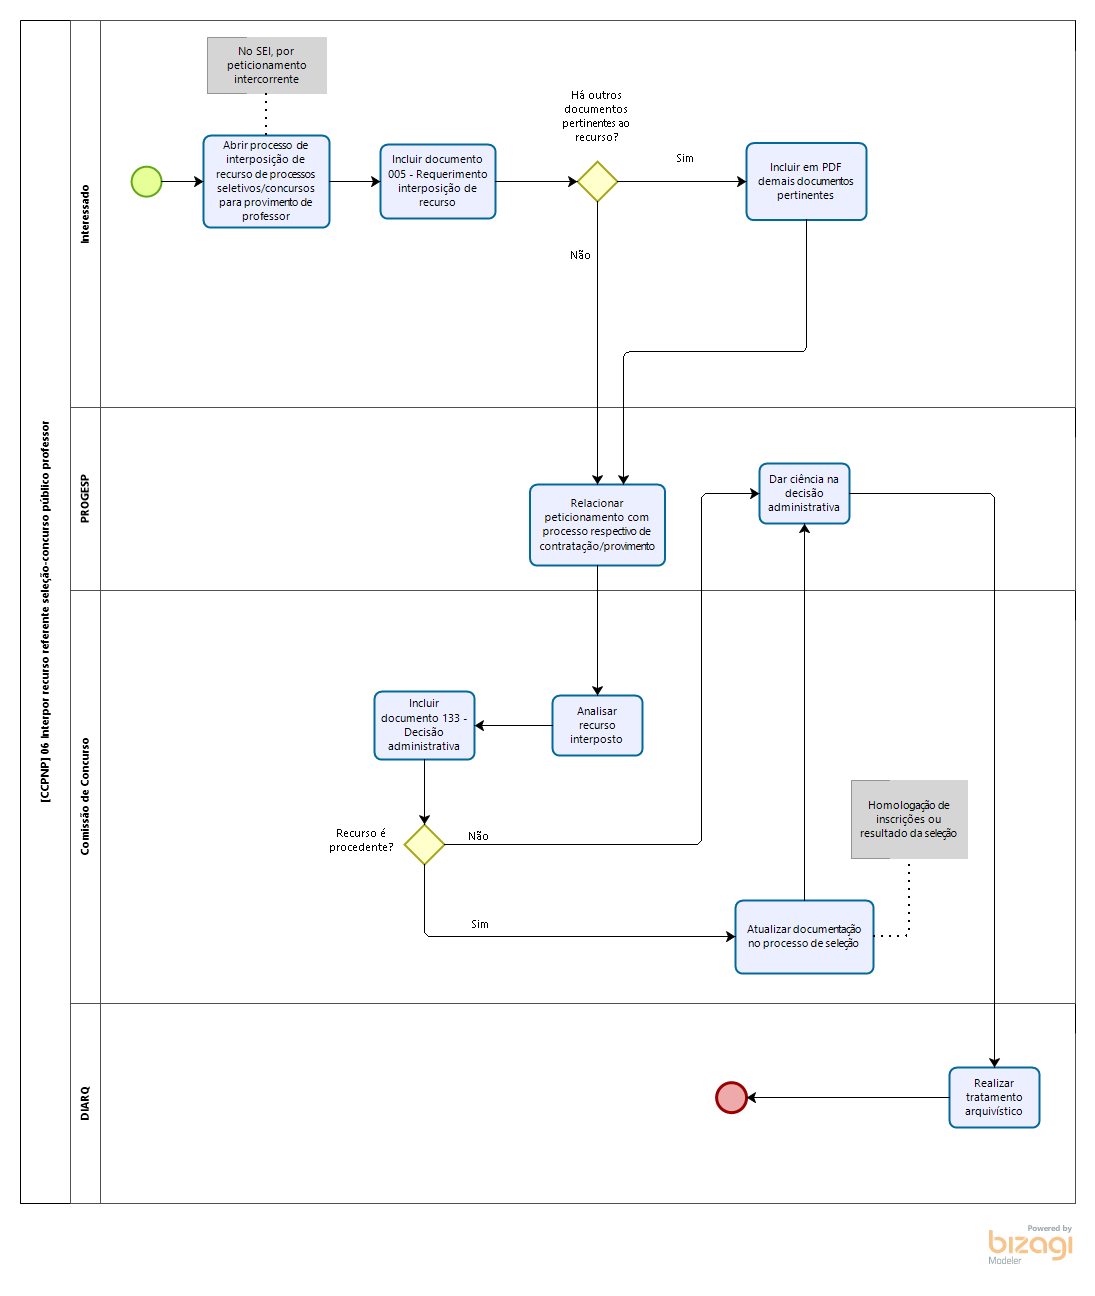
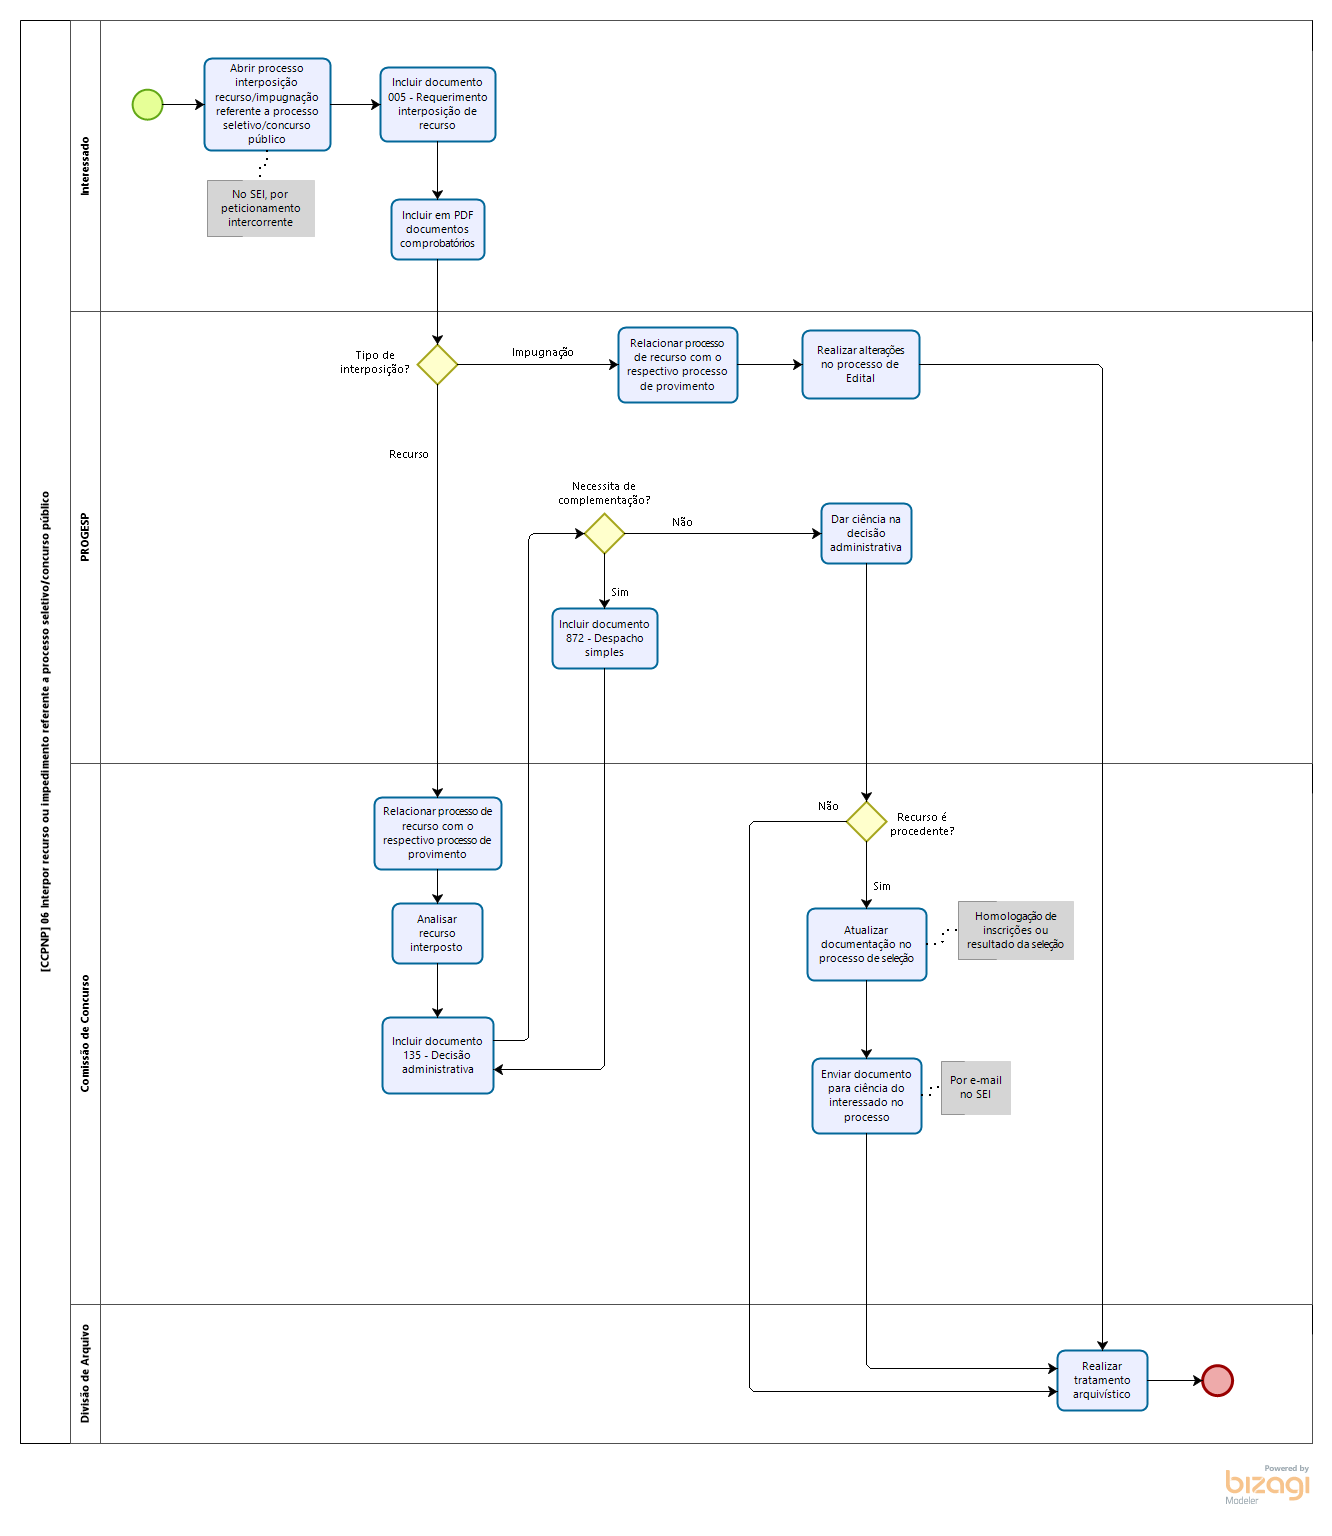
[CCPNP]

diff --git a/CCPNP/CCPNP 06 Interpor recurso referente seleção-concurso público professor/libs/js/json/configuration.json.js b/CCPNP/CCPNP 06 Interpor recurso referente seleção-concurso público professor/libs/js/json/configuration.json.js
@@ -1,1 +1,1 @@
-Bizagi.AppModel = {"personalized":false,"userLogoName":"\\libs\\img\\biz-ex-logo.png","bizagiUrl":"http://www.bizagi.com","productName":"Bizagi Modeler","modelName":"[CCPNP] 06 Interpor recurso referente seleção-concurso público professor","publishDate":"13/11/2020 13:54:31","pages":[{"id":"9fda9faa-33d2-456f-862f-ec55906ac26f","name":"[CCPNP] 06 Interpor recurso referente seleção-concurso público professor","version":"1.0","author":"mauriciostuani","image":"files\\diagrams\\CCPNP]_06_Interpor_recurso_referente_selecao_concurso_publico_professor.png","isSubprocessPage":false,"elements":[{"id":"73a4371a-78c5-4d88-a90a-04c3a7d56145","name":"[CCPNP] 06 Interpor recurso referente seleção-concurso público professor","elementImage":"files\\bpmnElements\\Participant.png","imageBounds":{"points":[{"x":20.0,"y":20.0}],"radius":0.0,"height":1183.0,"width":50.0,"shape":"rect"},"elementType":"Participant","properties":[],"pageElements":[{"id":"550db8bb-77d8-47ed-a48a-e9531f126b46","name":"Nenhum início","elementImage":"files\\bpmnElements\\NoneStart.png","imageBounds":{"points":[{"x":131.0,"y":166.0}],"radius":15.0,"height":30.0,"width":30.0,"shape":"circle"},"elementType":"NoneStart"},{"id":"ea1a994b-1d33-4651-8b73-d2d40a9599a6","name":"Abrir processo  de interposição de recurso de processos seletivos/concursos para provimento de professor","elementImage":"files\\bpmnElements\\AbstractTask.png","imageBounds":{"points":[{"x":203.0,"y":135.0}],"radius":0.0,"height":92.0,"width":126.0,"shape":"rect"},"elementType":"AbstractTask","properties":[]},{"id":"c5dfa7f7-2dc9-44c0-8360-ccdbe01b112c","name":"Incluir documento 005 - Requerimento interposição de recurso ","elementImage":"files\\bpmnElements\\AbstractTask.png","imageBounds":{"points":[{"x":380.0,"y":144.0}],"radius":0.0,"height":74.0,"width":115.0,"shape":"rect"},"elementType":"AbstractTask","properties":[]},{"id":"33979ef0-88bd-4088-83b7-56f4ffee956e","name":"Há outros documentos  pertinentes ao recurso?","elementImage":"files\\bpmnElements\\ExclusiveGateway.png","imageBounds":{"points":[{"x":577.0,"y":161.0}],"radius":0.0,"height":40.0,"width":40.0,"shape":"poly"},"elementType":"ExclusiveGateway","properties":[],"pageElements":[{"name":"Sim","elementType":"SequenceFlow","properties":[]},{"name":"Não","elementType":"SequenceFlow","properties":[]}]},{"id":"271a0203-d584-486e-9b68-02074436c168","name":"Incluir em PDF demais documentos pertinentes","elementImage":"files\\bpmnElements\\AbstractTask.png","imageBounds":{"points":[{"x":746.0,"y":142.5}],"radius":0.0,"height":77.0,"width":120.0,"shape":"rect"},"elementType":"AbstractTask","properties":[]},{"id":"aff48178-87ed-41b8-a4ae-0cfc513162cd","name":"Relacionar peticionamento com processo respectivo de  contratação/provimento","elementImage":"files\\bpmnElements\\AbstractTask.png","imageBounds":{"points":[{"x":529.500061,"y":484.0}],"radius":0.0,"height":81.0,"width":135.0,"shape":"rect"},"elementType":"AbstractTask","properties":[]},{"id":"31af199d-f8ba-429e-bb1f-08b67b20ca41","name":"Analisar recurso interposto","elementImage":"files\\bpmnElements\\AbstractTask.png","imageBounds":{"points":[{"x":552.0,"y":695.0}],"radius":0.0,"height":60.0,"width":90.0,"shape":"rect"},"elementType":"AbstractTask","properties":[]},{"id":"d6649c0c-e5e6-4352-8349-b7bf5a251ee7","name":"Incluir documento 133 - Decisão administrativa","elementImage":"files\\bpmnElements\\AbstractTask.png","imageBounds":{"points":[{"x":374.0,"y":691.0}],"radius":0.0,"height":68.0,"width":100.0,"shape":"rect"},"elementType":"AbstractTask","properties":[]},{"id":"7bab6257-095d-400e-9e12-38d6078d5c9b","name":"Recurso é procedente?","elementImage":"files\\bpmnElements\\ExclusiveGateway.png","imageBounds":{"points":[{"x":404.0,"y":824.0}],"radius":0.0,"height":40.0,"width":40.0,"shape":"poly"},"elementType":"ExclusiveGateway","properties":[],"pageElements":[{"name":"Sim","elementType":"SequenceFlow","properties":[]},{"name":"Não","elementType":"SequenceFlow","properties":[]}]},{"id":"24d9070e-1f6c-4428-a303-88b7886fe943","name":"Atualizar documentação no processo de seleção ","elementImage":"files\\bpmnElements\\AbstractTask.png","imageBounds":{"points":[{"x":735.0,"y":900.0}],"radius":0.0,"height":73.0,"width":138.0,"shape":"rect"},"elementType":"AbstractTask","properties":[]},{"id":"a04fdb59-ac6e-49b2-ac94-f149794c29dd","name":"Dar ciência na decisão administrativa","elementImage":"files\\bpmnElements\\AbstractTask.png","imageBounds":{"points":[{"x":759.0,"y":463.0}],"radius":0.0,"height":60.0,"width":90.0,"shape":"rect"},"elementType":"AbstractTask","properties":[]},{"id":"bb32ff8b-fca3-42d8-9217-a77dbad56aed","name":"Realizar tratamento arquivístico","elementImage":"files\\bpmnElements\\AbstractTask.png","imageBounds":{"points":[{"x":949.0,"y":1067.0}],"radius":0.0,"height":60.0,"width":90.0,"shape":"rect"},"elementType":"AbstractTask","properties":[]},{"id":"aa68c9a2-4020-4834-b4cd-852d1eafa241","name":"Nenhum final","elementImage":"files\\bpmnElements\\NoneEnd.png","imageBounds":{"points":[{"x":716.0,"y":1082.0}],"radius":15.0,"height":30.0,"width":30.0,"shape":"circle"},"elementType":"NoneEnd"},{"id":"7ec30e18-dcf3-4ef4-9c4f-9332b1c970aa","name":"Interessado","elementImage":"files\\bpmnElements\\Lane.png","imageBounds":{"points":[{"x":70.0,"y":20.0}],"radius":0.0,"height":387.0,"width":30.0,"shape":"rect"},"elementType":"Lane"},{"id":"a7009bb5-cf66-4bd9-abd8-2eafeaca8259","name":"PROGESP","elementImage":"files\\bpmnElements\\Lane.png","imageBounds":{"points":[{"x":70.0,"y":407.0}],"radius":0.0,"height":183.0,"width":30.0,"shape":"rect"},"elementType":"Lane"},{"id":"41ab7287-3b40-4efa-adb2-5dafd4b48d5a","name":"Comissão de Concurso","elementImage":"files\\bpmnElements\\Lane.png","imageBounds":{"points":[{"x":70.0,"y":590.0}],"radius":0.0,"height":413.0,"width":30.0,"shape":"rect"},"elementType":"Lane"},{"id":"4de78c46-38a5-4505-9bf9-dce6fe28b984","name":"DIARQ","elementImage":"files\\bpmnElements\\Lane.png","imageBounds":{"points":[{"x":70.0,"y":1003.0}],"radius":0.0,"height":200.0,"width":30.0,"shape":"rect"},"elementType":"Lane"}]}]}],"texts":{"tableOfContents":"Índice","pageNumber":"Página","pageNumberLabelOf":"de","version":"Versão","author":"Autor","description":"Descrição","mainPool":"Processo principal","mainPoolDescription":"Processo principal Descrição","processDiagrams":"Processar os Diagramas","processElements":"Elementos do processo","elements":"Elementos do processo","defaultElementName":"Elemento","performers":"Executantes","accountable":"Autoridade","consulted":"Consultado","informed":"Informado","connectors":"Conectores","connector":"Conector","home":"Principal","search":"Pesquisar","goToParentProcess":"<< Ir para Matriz","visitBizagi":"Visite bizagi.com","contains":"Contém {0} subprocessos","showAll":"Show all","fullScreen":"Tela inteira","zoomIn":"Ampliar","zoomOut":"Reduzir","close":"Fechar","menu":"Menu: ","errorPage":"Erro ao visualizar a página","process":"Processo","subProcess":"Subprocessos publicados","contain":"Contém","checkAttributes":"Ver atributos","checkOverview":"Ver resumo","unavailableResource":"O recurso não está disponível","localResource":"O recurso pode ser acessado localmente","performer":"Participantes","linktoimage":"Link para a  imagem","presentationAction":"Ações de apresentação","searchGlobal":"Busca todos","searchLocal":"Busca neste processo","searchResults":"Nenhum resultado encontrado","titlePage":"Start","emptyElement":"Este elemento ainda não foi documentado","unsupported":"Seu navegador não suporta conteúdo exibido por esta página. <br> Recomendamos que você atualizar o seu navegador.","details":"Detalhes","expand":"Expandir","mainPoolProperties":"Propriedades do Processo principal","cannotVisualize":"The page cannot be displayed","resourceNotFound":"The requested resource was not found:","applyTheme":"Applying new theme"},"searchMap":[{"containerId":"9fda9faa-33d2-456f-862f-ec55906ac26f","containerName":"[CCPNP] 06 Interpor recurso referente seleção-concurso público professor","isSubprocess":false,"elements":[{"id":"73a4371a-78c5-4d88-a90a-04c3a7d56145","value":"[CCPNP] 06 Interpor recurso referente seleção-concurso público professor"},{"id":"7ec30e18-dcf3-4ef4-9c4f-9332b1c970aa","value":"Interessado"},{"id":"a7009bb5-cf66-4bd9-abd8-2eafeaca8259","value":"PROGESP"},{"id":"41ab7287-3b40-4efa-adb2-5dafd4b48d5a","value":"Comissão de Concurso"},{"id":"4de78c46-38a5-4505-9bf9-dce6fe28b984","value":"DIARQ"},{"id":"31af199d-f8ba-429e-bb1f-08b67b20ca41","value":"Analisar recurso interposto"},{"id":"24d9070e-1f6c-4428-a303-88b7886fe943","value":"Atualizar documentação no processo de seleção "},{"id":"aa68c9a2-4020-4834-b4cd-852d1eafa241","value":""},{"id":"c5dfa7f7-2dc9-44c0-8360-ccdbe01b112c","value":"Incluir documento 005 - Requerimento interposição de recurso "},{"id":"550db8bb-77d8-47ed-a48a-e9531f126b46","value":""},{"id":"d6649c0c-e5e6-4352-8349-b7bf5a251ee7","value":"Incluir documento 133 - Decisão administrativa"},{"id":"ea1a994b-1d33-4651-8b73-d2d40a9599a6","value":"Abrir processo  de interposição de recurso de processos seletivos/concursos para provimento de professor"},{"id":"bb32ff8b-fca3-42d8-9217-a77dbad56aed","value":"Realizar tratamento arquivístico"},{"id":"7bab6257-095d-400e-9e12-38d6078d5c9b","value":"Recurso é procedente?"},{"id":"aff48178-87ed-41b8-a4ae-0cfc513162cd","value":"Relacionar peticionamento com processo respectivo de  contratação/provimento"},{"id":"a04fdb59-ac6e-49b2-ac94-f149794c29dd","value":"Dar ciência na decisão administrativa"},{"id":"271a0203-d584-486e-9b68-02074436c168","value":"Incluir em PDF demais documentos pertinentes"},{"id":"33979ef0-88bd-4088-83b7-56f4ffee956e","value":"Há outros documentos  pertinentes ao recurso?"},{"id":"722bcc7e-2093-4be1-a575-df6f945bb4ac"},{"id":"cef6287e-f06d-40c7-8a98-cd01bec83e7a"},{"id":"87e7b691-e051-48e6-8efe-a9215e86c87f"},{"id":"48ec7532-e574-411a-b06c-289c73c7d315"}]}]}
+Bizagi.AppModel = {"personalized":false,"userLogoName":"\\libs\\img\\biz-ex-logo.png","bizagiUrl":"http://www.bizagi.com","productName":"Bizagi Modeler","modelName":"[CCPNP] 06 Interpor recurso referente seleção-concurso público professor","publishDate":"09/01/2021 12:51:57","pages":[{"id":"9fda9faa-33d2-456f-862f-ec55906ac26f","name":"[CCPNP] 06 Interpor recurso referente seleção-concurso público professor","version":"1.0","author":"mauriciostuani","image":"files\\diagrams\\CCPNP]_06_Interpor_recurso_referente_selecao_concurso_publico_professor.png","isSubprocessPage":false,"elements":[{"id":"73a4371a-78c5-4d88-a90a-04c3a7d56145","name":"[CCPNP] 06 Interpor recurso ou impedimento referente a processo seletivo/concurso público","elementImage":"files\\bpmnElements\\Participant.png","imageBounds":{"points":[{"x":20.0,"y":20.0}],"radius":0.0,"height":1423.0,"width":50.0,"shape":"rect"},"elementType":"Participant","properties":[],"pageElements":[{"id":"550db8bb-77d8-47ed-a48a-e9531f126b46","name":"Nenhum início","elementImage":"files\\bpmnElements\\NoneStart.png","imageBounds":{"points":[{"x":132.0,"y":89.0}],"radius":15.0,"height":30.0,"width":30.0,"shape":"circle"},"elementType":"NoneStart"},{"id":"ea1a994b-1d33-4651-8b73-d2d40a9599a6","name":"Abrir processo interposição recurso/impugnação referente a processo seletivo/concurso público","elementImage":"files\\bpmnElements\\AbstractTask.png","imageBounds":{"points":[{"x":204.0,"y":58.0}],"radius":0.0,"height":92.0,"width":126.0,"shape":"rect"},"elementType":"AbstractTask","properties":[]},{"id":"c5dfa7f7-2dc9-44c0-8360-ccdbe01b112c","name":"Incluir documento 005 - Requerimento interposição de recurso ","elementImage":"files\\bpmnElements\\AbstractTask.png","imageBounds":{"points":[{"x":380.0,"y":67.0}],"radius":0.0,"height":74.0,"width":115.0,"shape":"rect"},"elementType":"AbstractTask","properties":[]},{"id":"271a0203-d584-486e-9b68-02074436c168","name":"Incluir em PDF documentos comprobatórios","elementImage":"files\\bpmnElements\\AbstractTask.png","imageBounds":{"points":[{"x":391.0,"y":199.0}],"radius":0.0,"height":60.0,"width":93.0,"shape":"rect"},"elementType":"AbstractTask","properties":[]},{"id":"14cc927f-cb5d-41ad-b340-6702bbd62e65","name":"Tipo de interposição?","elementImage":"files\\bpmnElements\\ExclusiveGateway.png","imageBounds":{"points":[{"x":417.0,"y":344.0}],"radius":0.0,"height":40.0,"width":40.0,"shape":"poly"},"elementType":"ExclusiveGateway","properties":[],"pageElements":[{"name":"Recurso","elementType":"SequenceFlow","properties":[]},{"name":"Impugnação","elementType":"SequenceFlow","properties":[]}]},{"id":"aff48178-87ed-41b8-a4ae-0cfc513162cd","name":"Relacionar processo de recurso com o respectivo processo de provimento","elementImage":"files\\bpmnElements\\AbstractTask.png","imageBounds":{"points":[{"x":374.0,"y":797.0}],"radius":0.0,"height":72.0,"width":127.0,"shape":"rect"},"elementType":"AbstractTask","properties":[]},{"id":"31af199d-f8ba-429e-bb1f-08b67b20ca41","name":"Analisar recurso interposto","elementImage":"files\\bpmnElements\\AbstractTask.png","imageBounds":{"points":[{"x":392.0,"y":903.0}],"radius":0.0,"height":60.0,"width":90.0,"shape":"rect"},"elementType":"AbstractTask","properties":[]},{"id":"d6649c0c-e5e6-4352-8349-b7bf5a251ee7","name":"Incluir documento 135 - Decisão administrativa","elementImage":"files\\bpmnElements\\AbstractTask.png","imageBounds":{"points":[{"x":382.0,"y":1017.0}],"radius":0.0,"height":76.0,"width":111.0,"shape":"rect"},"elementType":"AbstractTask","properties":[]},{"id":"ee5d26d4-0ce1-460c-bcca-3c759a990829","name":"Necessita de complementação?","elementImage":"files\\bpmnElements\\ExclusiveGateway.png","imageBounds":{"points":[{"x":584.0,"y":513.0}],"radius":0.0,"height":40.0,"width":40.0,"shape":"poly"},"elementType":"ExclusiveGateway","properties":[],"pageElements":[{"name":"Sim","elementType":"SequenceFlow","properties":[]},{"name":"Não","elementType":"SequenceFlow","properties":[]}]},{"id":"f3127d44-a085-4aa2-aeb7-d62816e31097","name":"Incluir documento  872 - Despacho simples","elementImage":"files\\bpmnElements\\AbstractTask.png","imageBounds":{"points":[{"x":552.0,"y":608.0}],"radius":0.0,"height":60.0,"width":105.0,"shape":"rect"},"elementType":"AbstractTask","properties":[]},{"id":"a04fdb59-ac6e-49b2-ac94-f149794c29dd","name":"Dar ciência na decisão administrativa","elementImage":"files\\bpmnElements\\AbstractTask.png","imageBounds":{"points":[{"x":821.0,"y":503.0}],"radius":0.0,"height":60.0,"width":90.0,"shape":"rect"},"elementType":"AbstractTask","properties":[]},{"id":"365738e4-37be-4626-a467-6babe7b9a9e7","name":"Recurso é procedente?","elementImage":"files\\bpmnElements\\ExclusiveGateway.png","imageBounds":{"points":[{"x":846.0,"y":801.0}],"radius":0.0,"height":40.0,"width":40.0,"shape":"poly"},"elementType":"ExclusiveGateway","properties":[],"pageElements":[{"name":"Sim","elementType":"SequenceFlow","properties":[]},{"name":"Não","elementType":"SequenceFlow","properties":[]}]},{"id":"24d9070e-1f6c-4428-a303-88b7886fe943","name":"Atualizar documentação no processo de seleção ","elementImage":"files\\bpmnElements\\AbstractTask.png","imageBounds":{"points":[{"x":807.0,"y":908.0}],"radius":0.0,"height":72.0,"width":119.0,"shape":"rect"},"elementType":"AbstractTask","properties":[]},{"id":"1fa80cd8-b74b-4a3c-a37c-1f4c0541225b","name":"Enviar documento para ciência do interessado no processo","elementImage":"files\\bpmnElements\\AbstractTask.png","imageBounds":{"points":[{"x":812.0,"y":1058.0}],"radius":0.0,"height":75.0,"width":109.0,"shape":"rect"},"elementType":"AbstractTask","properties":[]},{"id":"189788ba-2c39-4b43-b963-945a1962fa67","name":"Relacionar processo de recurso com o respectivo processo de provimento","elementImage":"files\\bpmnElements\\AbstractTask.png","imageBounds":{"points":[{"x":618.0,"y":327.0}],"radius":0.0,"height":75.0,"width":119.0,"shape":"rect"},"elementType":"AbstractTask","properties":[]},{"id":"f4689d0e-abdb-4070-968b-53c0aec7298b","name":"Realizar alterações no processo de Edital ","elementImage":"files\\bpmnElements\\AbstractTask.png","imageBounds":{"points":[{"x":802.0,"y":330.0}],"radius":0.0,"height":68.0,"width":117.0,"shape":"rect"},"elementType":"AbstractTask","properties":[]},{"id":"bb32ff8b-fca3-42d8-9217-a77dbad56aed","name":"Realizar tratamento arquivístico","elementImage":"files\\bpmnElements\\AbstractTask.png","imageBounds":{"points":[{"x":1057.0,"y":1350.0}],"radius":0.0,"height":60.0,"width":90.0,"shape":"rect"},"elementType":"AbstractTask","properties":[]},{"id":"aa68c9a2-4020-4834-b4cd-852d1eafa241","name":"Nenhum final","elementImage":"files\\bpmnElements\\NoneEnd.png","imageBounds":{"points":[{"x":1202.0,"y":1365.0}],"radius":15.0,"height":30.0,"width":30.0,"shape":"circle"},"elementType":"NoneEnd"},{"id":"7ec30e18-dcf3-4ef4-9c4f-9332b1c970aa","name":"Interessado","elementImage":"files\\bpmnElements\\Lane.png","imageBounds":{"points":[{"x":70.0,"y":20.0}],"radius":0.0,"height":291.0,"width":30.0,"shape":"rect"},"elementType":"Lane"},{"id":"a7009bb5-cf66-4bd9-abd8-2eafeaca8259","name":"PROGESP","elementImage":"files\\bpmnElements\\Lane.png","imageBounds":{"points":[{"x":70.0,"y":311.0}],"radius":0.0,"height":452.0,"width":30.0,"shape":"rect"},"elementType":"Lane"},{"id":"41ab7287-3b40-4efa-adb2-5dafd4b48d5a","name":"Comissão de Concurso","elementImage":"files\\bpmnElements\\Lane.png","imageBounds":{"points":[{"x":70.0,"y":763.0}],"radius":0.0,"height":541.0,"width":30.0,"shape":"rect"},"elementType":"Lane"},{"id":"4de78c46-38a5-4505-9bf9-dce6fe28b984","name":"Divisão de Arquivo","elementImage":"files\\bpmnElements\\Lane.png","imageBounds":{"points":[{"x":70.0,"y":1304.0}],"radius":0.0,"height":139.0,"width":30.0,"shape":"rect"},"elementType":"Lane"}]}]}],"texts":{"tableOfContents":"Índice","pageNumber":"Página","pageNumberLabelOf":"de","version":"Versão","author":"Autor","description":"Descrição","mainPool":"Processo principal","mainPoolDescription":"Processo principal Descrição","processDiagrams":"Processar os Diagramas","processElements":"Elementos do processo","elements":"Elementos do processo","defaultElementName":"Elemento","performers":"Executantes","accountable":"Autoridade","consulted":"Consultado","informed":"Informado","connectors":"Conectores","connector":"Conector","home":"Principal","search":"Pesquisar","goToParentProcess":"<< Ir para Matriz","visitBizagi":"Visite bizagi.com","contains":"Contém {0} subprocessos","showAll":"Show all","fullScreen":"Tela inteira","zoomIn":"Ampliar","zoomOut":"Reduzir","close":"Fechar","menu":"Menu: ","errorPage":"Erro ao visualizar a página","process":"Processo","subProcess":"Subprocessos publicados","contain":"Contém","checkAttributes":"Ver atributos","checkOverview":"Ver resumo","unavailableResource":"O recurso não está disponível","localResource":"O recurso pode ser acessado localmente","performer":"Participantes","linktoimage":"Link para a  imagem","presentationAction":"Ações de apresentação","searchGlobal":"Busca todos","searchLocal":"Busca neste processo","searchResults":"Nenhum resultado encontrado","titlePage":"Start","emptyElement":"Este elemento ainda não foi documentado","unsupported":"Seu navegador não suporta conteúdo exibido por esta página. <br> Recomendamos que você atualizar o seu navegador.","details":"Detalhes","expand":"Expandir","mainPoolProperties":"Propriedades do Processo principal","cannotVisualize":"The page cannot be displayed","resourceNotFound":"The requested resource was not found:","applyTheme":"Applying new theme"},"searchMap":[{"containerId":"9fda9faa-33d2-456f-862f-ec55906ac26f","containerName":"[CCPNP] 06 Interpor recurso referente seleção-concurso público professor","isSubprocess":false,"elements":[{"id":"73a4371a-78c5-4d88-a90a-04c3a7d56145","value":"[CCPNP] 06 Interpor recurso ou impedimento referente a processo seletivo/concurso público"},{"id":"7ec30e18-dcf3-4ef4-9c4f-9332b1c970aa","value":"Interessado"},{"id":"a7009bb5-cf66-4bd9-abd8-2eafeaca8259","value":"PROGESP"},{"id":"41ab7287-3b40-4efa-adb2-5dafd4b48d5a","value":"Comissão de Concurso"},{"id":"4de78c46-38a5-4505-9bf9-dce6fe28b984","value":"Divisão de Arquivo"},{"id":"31af199d-f8ba-429e-bb1f-08b67b20ca41","value":"Analisar recurso interposto"},{"id":"24d9070e-1f6c-4428-a303-88b7886fe943","value":"Atualizar documentação no processo de seleção "},{"id":"aa68c9a2-4020-4834-b4cd-852d1eafa241","value":""},{"id":"c5dfa7f7-2dc9-44c0-8360-ccdbe01b112c","value":"Incluir documento 005 - Requerimento interposição de recurso "},{"id":"550db8bb-77d8-47ed-a48a-e9531f126b46","value":""},{"id":"d6649c0c-e5e6-4352-8349-b7bf5a251ee7","value":"Incluir documento 135 - Decisão administrativa"},{"id":"ea1a994b-1d33-4651-8b73-d2d40a9599a6","value":"Abrir processo interposição recurso/impugnação referente a processo seletivo/concurso público"},{"id":"bb32ff8b-fca3-42d8-9217-a77dbad56aed","value":"Realizar tratamento arquivístico"},{"id":"aff48178-87ed-41b8-a4ae-0cfc513162cd","value":"Relacionar processo de recurso com o respectivo processo de provimento"},{"id":"a04fdb59-ac6e-49b2-ac94-f149794c29dd","value":"Dar ciência na decisão administrativa"},{"id":"271a0203-d584-486e-9b68-02074436c168","value":"Incluir em PDF documentos comprobatórios"},{"id":"14cc927f-cb5d-41ad-b340-6702bbd62e65","value":"Tipo de interposição?"},{"id":"f4689d0e-abdb-4070-968b-53c0aec7298b","value":"Realizar alterações no processo de Edital "},{"id":"189788ba-2c39-4b43-b963-945a1962fa67","value":"Relacionar processo de recurso com o respectivo processo de provimento"},{"id":"ee5d26d4-0ce1-460c-bcca-3c759a990829","value":"Necessita de complementação?"},{"id":"f3127d44-a085-4aa2-aeb7-d62816e31097","value":"Incluir documento  872 - Despacho simples"},{"id":"365738e4-37be-4626-a467-6babe7b9a9e7","value":"Recurso é procedente?"},{"id":"1fa80cd8-b74b-4a3c-a37c-1f4c0541225b","value":"Enviar documento para ciência do interessado no processo"},{"id":"722bcc7e-2093-4be1-a575-df6f945bb4ac"},{"id":"cef6287e-f06d-40c7-8a98-cd01bec83e7a"},{"id":"e59103f1-6973-42f3-9ead-7961d016fe11"},{"id":"87e7b691-e051-48e6-8efe-a9215e86c87f"},{"id":"48ec7532-e574-411a-b06c-289c73c7d315"},{"id":"b489cc98-03b0-44c3-963b-7841fbd377e3"}]}]}
